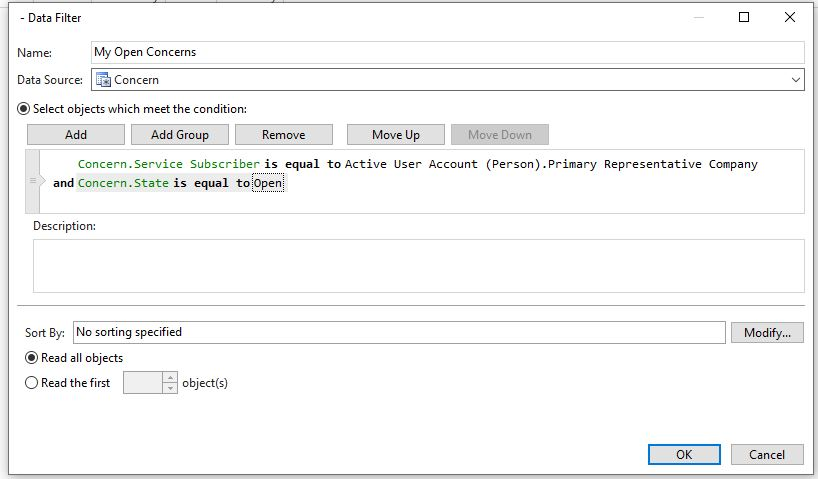
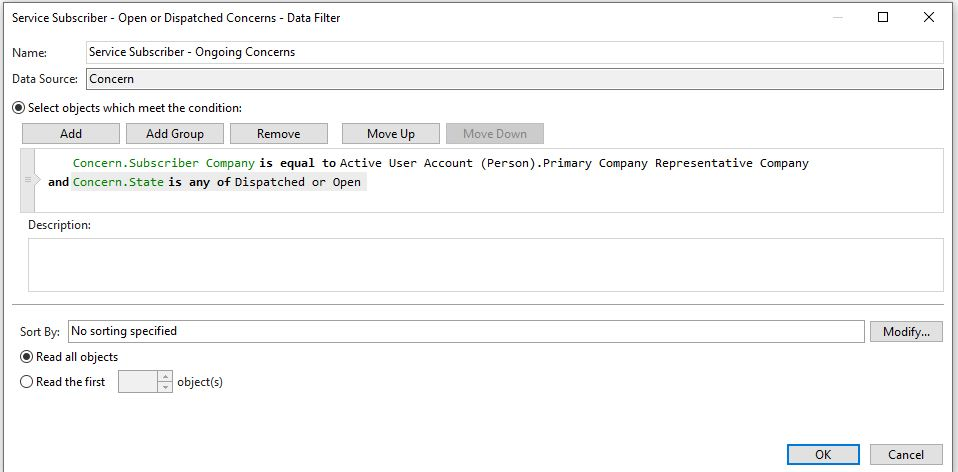
Additional exerices on 3 and 4

Changed region(s): [[0.0, 0.0, 1.0, 1.0]]

diff --git a/academy/e3.2-form.md b/academy/e3.2-form.md
@@ -4,16 +4,16 @@ You will now make a Form used for registering a new concern and showing details 
 
 
 
-2. In Pages, Right-click -> New -> Form. Save it right away with Master Data Source "Concern" and name it "Concern Details". Pick the default Viewport Layout "None". Both Components and Pages can be embedded in pages and other modules (if the setting is enabled for the page), and there is no strict rule for when a Page or Component is the correct choice. In this case, we're planning to embed the concern details into a larger Concern page containing the Task. However, we also want the user to be able to add concerns and only needing to input the values in the Concern Details page. Thus, "Concern Details" will also be used as a standalone page, and we decide to place it within the Pages section as a Form.
+2. In Pages, Right-click -> New -> Form. Save it right away with Master Data Source "Concern" and name it "Concern Details". Pick the default Viewport Layout "None". *Both Components and Pages can be embedded in pages and other modules (if the setting is enabled for the page), and there is no strict rule for when a Page or Component is the correct choice. In this case, we're planning to embed the concern details into a larger Concern page containing the Task. However, we also want the user to be able to add concerns and only needing to input the values in the Concern Details page. Thus, "Concern Details" will also be used as a standalone page, and we decide to place it within the Pages section as a Form.*
 
-![Components.JPG](media/components.JPG)
+
 
 ### 3.1.2 Data Set setup
 3. Data Sets: This is where you add the object(s) from the Module's Data Source selection that you want to show or utilize in the Form. You already defined Concern as the Master Data Source when creating the form. Note that:
    1. We want to be able to send Concern-data into the form and get data back - for instance we can auto-fill location based on the context we activate the form from, and return to a concern view updated with the new data after adding a new concern. This means that the dataset needs to have "Included in Public Interface" activated. Data Sources added in the Public Interface section here, will also be available for input.
    2. The form Data Set "Concern is restricted to occurrence = "One" by default when it is set as the Master Data Source, which means that only one Concern-object can exist in the Form and this one Concern is always in focus when the form is in use. Occurrences "Many" is used for data sources that you want to list (e.g. in a Table or List etc) within the form, often objects related to the master data source.
 
-![Exc2fig2.JPG](media/3.1.2.PNG)
+![Exc2fig2.JPG](media/DataSets_edit.JPG)
 
 ### 3.1.3 Viewport and Page Layout
 4. Viewport: Go to Viewport and rename the Area content to "Concern Details" (double click for edit mode). Viewport Areas are used to create the general layout of the Page, and if your page were separated in a few logical sections, you could determine the page's behaviour on smaller screens through viewports. Concern Details will be a fairly basic page, and we do not need any additional Viewport Areas for this part. Mark the left hand side of the "Contact Details" area (where it says "1fr" for "1 fraction"). In the right hand menu, you can now see some settings for the Row(0). Set Height Unit = Fit to Content.
@@ -22,14 +22,31 @@ You will now make a Form used for registering a new concern and showing details 
 ![Exc2fig3.JPG](media/Exc2fig3.JPG)
 
 ### 3.1.4 Adding Controls
-6. Navigate to "Controls" in the Insert Content section. Add a Container - either by double clicking or drag and dropping. You will get a warning in the upper left corner. Click it and read. These are warnings and recommendations from the form designer, and can often be useful to ensure that controllers are displayed optimally. Change the Height of the Container to Fit to Content as the warning suggests. The second section shows available controls for data fields. These can be added to the form and bound to data fields here, but a quicker route follows:
-  1. Navigate back to the Data tab in the Content-section.
+6. Navigate to "Controls" in the Insert Content section. Add a Container - either by double clicking when the viewport area is highlighted or drag and dropping. You will get a warning in the upper left corner. Click it and read. These are warnings and recommendations from the form designer, and can often be useful to ensure that controllers are displayed optimally. Change the Height of the Container to Fit to Content as the warning suggests. Also, set padding to 8 on all sides to clear some room in the edges of the page.
+
+![Exc2fig3.JPG](media/Container_settings.JPG)
+*Note that the two settings you just altered - height and padding - have become bolded to indicate that the default values have been replaced.*
+
+
+
+
+The second section shows available controls for data fields. These range from default input fields, to schedulers, and to embedding other components or pages.
+
+![Exc2fig3.JPG](media/Controls.JPG)
+
+
+These can be added to the form and bound to data fields from this Controls-list, but a quicker route follows:
+  1. Navigate back to the Data tab in the Insert Content-section.
   2. You can now add data fields to your form, with the data binding pre-defined. Hovering over a data field will show you the available control types for the given data field. Give some thought to the data type and amount of data being displayed when choosing the control type. For instance, radio buttons and dropdown menus are great for small selections of data, but may become overwhelming if applied to the data field for Company with several hundreds of instances. Here, a Lookup may increase user friendliness.
-7. Add Controls for the following fields; Subscriber Company, Property, Category and Severity. When choosing between display fields and input fields, give some though to whether the data could be changed at some point. In this case, the form will be used to create new instances so input fields are generally preferable.
+
+![Exc2fig3.JPG](media/ControlOptions.JPG)
+*These are simply suggestions, and you can always return to the Controls-tab to create more specific UX-controls as needed*
+
+7. Add Controls for the following fields; Subscriber Company, Subject, Property, Category and Severity. When choosing between display fields and input fields, give some though to whether the data could be changed at some point. In this case, the form will be used to create new instances so input fields are generally preferable. For a lot of the other forms created, the service subscriber should not be able to alter values, and you'll see a lot of display fields.
 8. Save your work and close the window.
 
 
-  ![Exc2fig3.JPG](media/Exc2fig4.JPG)
+
 
 
 
@@ -37,12 +54,29 @@ You will now make a Form used for registering a new concern and showing details 
 In the end, we want to be able to create new Concerns as well as viewing Concern Details in combination with the related task.
 We will start by using our "Concern Details" form as a Page in a larger form, before having a look at creating new concerns in the following actions lesson.
 
-1. Navigate to Pages. We want Create a new Form named "Concern", with the same Master Data Source as before - Concern. Pick the "Left/Right Split" for Viewport Layout. Navigate to Viewports and rename the Area contents to "Concern" (left) and "Task" (right) by double clicking. Set the height unit as Fractions for this row. We would like to have a header space that shows the subject of the Concern, that can stretch across both these viewports. Add a new row above the left/right, and a new viewport (use the ... in the row, instead of the + button at the bottom). Keep Height Unit as "Fit to Content" for this row. The viewport row is grey, which means there's no viewport area assigned to it. Add a new Viewport Area and name it "Header" ad drag it onto the two viewport spaces above "Left" and "Right". The page we're about to create will have two main columns of information, but for a full laptop size, this will likely not fill a full page. In these cases, we sometimes add an empty column in the layout to the right of the main content.
-2. Header; Head to the form view, and toggle the Control view (Ctrl+Shift+L). Mark the header area in the Control View.
-    1. Add an Icon control. Set the Icon to "Fluent-Message" - while the property manager may view Concerns as an inbox of potential tasks, the service subscriber considers concerns a communication with the property manager.
-    2. TODO
-3. We often add Pages or Components into a tab control, but content can also be embedded directly into the form. Highligt the Concern Viewport Area. Scroll all the way down to add an "Embedded Content"-control in the Control panel. Select Concern Details as your target, and send the Concern from your view into the data set.
-4. Navigate to Data Sets and add task as filtered dataset. We want Occurences to be set as "One" here - this is because we're only going to include the Task connected to the one Concern we're looking at right now. Set a mandatory data filter through "Objects Related to Another Data Set" that connects the Task to the active Concern's Task in a One to One Relationship.
+1. Navigate to Pages. We want Create a new Form named "Concern", with the same Master Data Source as before - Concern. Pick the "Left/Right Split" for Viewport Layout. Navigate to Viewports and rename the Area contents to "Concern" (left) and "Task" (right) by double clicking. Set the height unit as Fractions for this row. We would like to have a header space that shows the subject of the Concern, that can stretch across both these viewports. Add a new row above the left/right, and a new viewport (use the ... in the row, instead of the + button at the bottom). Keep Height Unit as "Fit to Content" for this row. The viewport row is grey, which means there's no viewport area assigned to it. Add a new Viewport Area and name it "Header" and drag it onto the two viewport spaces above "Left" and "Right". The page we're about to create will have two main columns of information, but for a full laptop size, this will likely not fill a full page. In these cases, we sometimes add an empty column in the layout to the right of the main content.
+
+![Exc2fig3.JPG](media/Viewports.JPG)
+
+
+
+![Exc2fig3.JPG](media/Concern_Viewport.JPG)
+
+2. Header; Head to the form view, and toggle the Control view (Ctrl+Shift+L). Mark the header area in the Control View. Set padding to 8 on all sides.
+    1. Add a Container and set height to Fit to Content.
+    2. Add an Icon control. Set the Icon to "Fluent-Message" - while the property manager may view Concerns as an inbox of potential tasks, the service subscriber considers concerns a communication with the property manager.
+    2. Add the "Display Name" as a Display Field. Set the Label value to "None". The Display Name is placed underneath the Icon by default, but we want these side-by-side. Mark the Container above and alter the Content Layout to Horizontal.
+
+![Exc2fig3.JPG](media/Horizontal.JPG)
+
+3. We often add Pages or Components into a tab control, but content can also be embedded directly into the form. Highlight the Concern Viewport Area. Scroll all the way down to add an "Embedded Content"-control in the Control panel. Select Concern Details as your target, and send the Concern from your view into the data set.
+
+## Add Task
+4. Navigate to Data Sets in your and add task as filtered dataset. We want Occurences to be set as "One" here - this is because we're only going to include the Task connected to the one Concern we're looking at right now. Set a mandatory data filter through "Objects Related to Another Data Set" that connects the Task to the active Concern's Task in a One to One Relationship.
+5. In the viewport Area to the right in your form, add an appropriate short summary of a task.
+
+
+## Mobile Layout
 5. Create a Mobile Viewport setup; Navigate back to the Viewports section. Add a new Viewport and choose "Medium" size as the breakpoint. This decides at what screen size the web page will choose this particular layout.  Make the following adaptions to the Phone Layout:
   1. Delete the empty rightmost column, this mostly exists to create an empty space for large screens.
   2. Delete the right column with Header and Task.
@@ -50,15 +84,9 @@ We will start by using our "Concern Details" form as a Page in a larger form, be
 If you head back into your Form, you can switch between the Viewports in the action bar on top. Here, you can also check how the form looks in dark mode or another colour theme. You can also test the phone viewport by shrinking the size of your browser.
 
 
+![Exc2fig3.JPG](media/Viewport_mobile.JPG)
 
 
-Task oppmot Concern er 1:1  
-
-9. Go to Form, and navigate to Controls. Add the container "Tab Control". Using the Tab Control allows us to tab content, and add Pages from the module. Set the Tab Control height to Fit to Content.
-10. Go to the Tab Control Settings at the right hand side. Click on Pages under "Content". Add a Page, and set the Target as the "Contact Details"-form you just created. Name the page "Contact Details".
-11. We need to define the data filter which informs your "Contact Detail" form of what data to display. Click on "No filters defined" and then click on the menu. Choose "Transfer All" and "Contact (0:1). Because both forms have Contact as their Master Data Source, they both contain maximum one instance of Contacts and the filter can simply transfer all Contacts from the form this instance.
-
-We will add activities at a later stage.
 
 
 

diff --git a/academy/e3.1-view.md b/academy/e3.1-view.md
@@ -3,17 +3,17 @@
 
 ## 3.1.1 Create a new Module called Concern and add Data definition
 1. In Studio, navigate to User Interaction -> Modules. Note that the existing modules have created a trend of dividing separate sections of the model into data-focused modules, and using the Facility Management module as a functionality-focused module where we collect all relevant pages from other modules. Continuing this trend, create a new data-focused Web Module named "Concern". You can instantly name it by saving once the Module Editor opens for your new module.
-2. Now we need to define which data source subset the module will have access to. Under Data Structure, navigate to Data Sources or Data Diagram and add Concern. Leave Max Occurrences as "unbounded", this allows the module to read more than one Concern, for instance for our tabular view. We can restrict the occurrences of the Concern object within each form and view later. Also leave "Persistable" checked, this allows us to add new concerns or alter existing contacts within the module and save the changes permanently. *Note that if you choose to do this in the Data Diagram, you will need to right-click and enable the Object Class as a Data Source after initially adding it. This is because the data diagram can sketch up relationships to object classes that are not used as data sources. Test this by adding Object Class Concern State, without enabling it as a data source. You can differentiate enabled data sources by their blue colour*
+2. Now we need to define which data source subset the module will have access to. Under Data Structure, navigate to Data Sources or Data Diagram and add Concern. Leave Max Occurrences as "unbounded", this allows the module to read more than one Concern, for instance for our tabular view. We can restrict the occurrences of the Concern object within each form and view later. Also leave "Persistable" checked, this allows us to add new concerns or alter existing contacts within the module and save the changes permanently. Also add Task as a Data Source. *Note that if you choose to do this in the Data Diagram, you will need to right-click and enable the Object Class as a Data Source after initially adding it. This is because the data diagram can sketch up relationships to object classes that are not used as data sources. Test this by adding Object Class Concern State, without enabling it as a data source. You can differentiate enabled data sources by their blue colour*
 
 
   ![Exc2fig5.JPG](media/Concern_DataSources.JPG)
-3. Data Filters: We want to create a few different data filters that can be applied to the Modules User Interfaces, namely: "My Open Concerns", "My Dispatched Concerns" and "My Completed Concerns". The "My" in this settings, indicates "the service subsriber's".
+3. Data Filters: We want to create a few different data filters that can be applied to the Modules User Interfaces, namely: "My Ongoing Concerns" and "My Completed Concerns". The "My" in this settings, indicates "the service subsriber's".
 
-  * Add new Data Filter, named "Service Subscriber - Open Concerns", with Filter Data Source = Concern.  We have 2 criteria we want to filter Concerns based on here - First off; we want the Concern's Subscriber Company to be the same as the logged on user's Primary Company Representative Company. Secondly; we want the Concern status to be Open. You can try to set up this filter without further instructions, or;
+  * Add new Data Filter, named "Service Subscriber - Ongoing Concerns", with Filter Data Source = Concern.  We have 2 criteria we want to filter Concerns based on here - First off; we want the Concern's Subscriber Company to be the same as the logged on user's Primary Company Representative Company. Secondly; we want the Concern status to be Open or Dispatched. You can try to set up this filter without further instructions, or;
   <details>
     <summary> **Click here for tips** </summary>
   We place the Object or Source we want to filter on the left hand side (Concern.Subscriber Company). This is a datafield available in the Web Module's data structure, so double-clicking (or right clicking and selecting "Select Object or Field") allows you to look in your available data sources for the comparison baseline here. We want to compare the Concern's Company value to the logged in user's primary company. Right click and choose "Select Object or Field" again. Note the Data Sources with different format to your Module Data Sources in the bottom of the "Data Source" list. These data sources are "session based". They can provide information about a logged on user, or error events as they occur. Highlight "Active User Account (Person)" and select "Primary Company Representative Company".
-  Add another condition, and set "Concern.State is equal to" as the conditional basis. State is a Code Domain - this means that there is a set number of values this comparison can use. Right click on the empty right-hand side, and choose "Open" from the value list.
+  Add another condition, and set "Concern.State is any of" as the conditional basis. State is a Code Domain - this means that there is a set number of values this comparison can use. Right click on the empty right-hand side, and choose "Select Object(s)", then pick Open and Dispatched from the value list.
 
     <details>
         <summary> **Click here to view the finished data filter** </summary>
@@ -24,8 +24,7 @@
 
 
 
-  * Add new Data Filter, named "Service Subscriber - Dispatched Concerns" using the same method.
-  * Add new Data Filter, named "Service Subscriber - Completed Concerns" using the same method.
+  * Add new Data Filter, named "Service Subscriber - Completed Concerns" using the same method. **NB! You can clone your first filter and simply alter the name and state-condition.**
 
 
 
@@ -33,27 +32,31 @@
 ## 3.2.2 Create Concern View
 
 1. Navigate to Pages in the Concern module. Add a New Page -> View.
-2. Name the View "Open Concerns" and choose Master Data Source = Concern. The reason all views are named in plural, is because their tabular nature indicates that several instances of the master data source will be listed.
-3. Navigate to View on the left-hand side and Toggle "Show Control View Pane" in the Ribbon (or click Ctrl+Shift+L). Both here, and directly in the view editor, you can alter the column arrangement by drag and dropping columns.
-4. Drag relevant data fields into the table from the "Insert Content" View, after the first columns you can simply double-click any data property you want added to the table.
-5. Add some custom formatting. Each column and cell can be formatted and styled by marking it and adjusting settings on the right hand side. Settings can be e.g. Column label, content alignment, filter enabling and text formatting. The default Column width is set to Fit to Content, but can often benefit from being changed to Fit to Label and Content (this is altered in the Column-tab on the right hand side, when a column is highlighted). This ensures that the label will be visible even if the column is empty for a certain subset of data, and can increase readability for the end user. For data properties that can be quite large (such as Subject or Note for Concern), a max width may be wise to avoid a single column taking up too much space.
+2. Name the View "Ongoing Concerns" and choose Master Data Source = Concern. The reason all views are named in plural, is because their tabular nature indicates that several instances of the master data source will be listed.
+3. Start in the Settings section in the top left, and title the View "Concerns" and add Icon "Fluent-Message" (continuing the symbolizing of concernc being communication between the leasing company and the property manager)
+3. Navigate to View on the left-hand side and Toggle "Show Control View Pane" in the Ribbon (or click Ctrl+Shift+L). Both in the Control View, and directly in the view editor, you can alter the column arrangement by drag and dropping columns. You can also navigate to the top-level in the table and edit table-level settings, or the top-level in the page and add an action bar (more on that later).
+  ![Exc2fig5.JPG](media/ViewEditor.JPG)
+
+
+4. Drag relevant data fields into the table from the "Insert Content" View, after the first columns you can simply double-click any data property you want added to the table. Add at least Concern No, Subject, Category, Property, Severity and Reported Date. Note that several columns are redundant due to the context, such as Service Subscriber and State - because the view is specifically created for Ongoing Concerns, and will use the "Service Subscriber - Ongoing Concerns" filter. *Note that while you can add Columns by right-clicking in the Control View, this required the data binding to be added to the column after, while dragging properties into the table from the "Insert Content"-section will automatically set data binding on your behalf.*
+5. Add some custom formatting. Each column and cell can be formatted and styled by marking it and adjusting settings on the right hand side. Settings can be e.g. Column label, content alignment, filter enabling and text formatting. The default Column width is set to Fit to Content (with header), which is a good fit for columns without very long data types. This ensures that the label will be visible even if the column is empty for a certain subset of data, and can increase readability for the end user. For data properties that can be quite large (such as Subject or Note for Concern), a max width may be wise to avoid a single column taking up too much space.
     * Set Max width = 400 for the Subject-column
-    * Alter the "Reported"-columns format to "Relative". This sets the time to show "3 days ago", in place of a date. Also rename the column Label to "Submitted"
-    * Set Layout properties Width = "Fit to Content (with Header)" and Min Width = "Fit to Content" for all columns.
+    * Alter the "Reported"-columns format to "Relative" (in the Cell-tab). This sets the time to show "3 days ago", in place of a date. Also rename the column Label to "Submitted"
 6. Mark the "table" level in the Control View Pane (or select a single column and hit "Esc"). This is where table-wide settings are found. More often than not, the Content and Interaction sections should be customized in some manner. The Content Section lets you group and sort the table based on content. Add sorting on "Concern No" Descending here. This sorts the Concerns in the order they were reported - reversed. We will define Interaction-behaviour after we have a form to represent a single Concern by.
 
   ![Exc2fig5.JPG](media/Exc2fig5.JPG)
 
 ### 3.2.2 Add the Concern View to the Facility Management Application
-Navigate to the Facility Management Application, and open the Sitemap. Note the setup for Tasks - where you have a group of pages. Within this group, several views with different data filters have been defined. This allows a single location on the sitemap to switch between different views. We would like to use the same setup for Concerns, where Open Concerns becomes the default and Dispatched and Completed are secondary views.
+Navigate to the Facility Management Application, and open the Sitemap. Note the setup for Tasks - where you have a group of pages. Within this group, several views with different data filters have been defined. This allows a single location on the sitemap to switch between different views. We would like to use the same setup for Concerns, where Ongoing Concerns becomes the default and Dispatched and Completed are secondary views.
 Add a Page and set target to your View named "Contacts", and set an appropriate name and title. The title is shown in the Tab name.
 
-1. Add Pages from the link list below the Tasks-section in the sitemap, label it "Concerns" and set Icon to "Fluent-Message".
-2. Add a page within the page group, label it "Backlog" and set the view "Open Concerns" as the target. Use the data filter "Service Subscriber - Open Concerns" to restrict the data listed in the app.
+1. Add **Pages** from the link list below the Tasks-section in the sitemap, label it "Concerns" and set Icon to "Fluent-Message".
+2. Add a page within the page group, label it "Backlog" and set the view "Ongoing Concerns" as the target. Use the data filter "Service Subscriber - Ongoing Concerns" to restrict the data listed in the app.
 3. At the bottom of the Page properties, set the "Backlog"-page as the default for the group.
 4. Badge; apply the same data source and filter settings to the page's badge.
-5. Save and refresh the app in your browser. Navigate to a Company. We can now see the Contact Tab, at the bottom of the Company page. As the database table is empty, no Companies has any contacts yet.
+5. Save and refresh the app in your browser. Navigate to the Concerns in your sitemap. As the database table is empty, no Companies has any concerns yet.
 
-Now that we can view the table with relevant contacts, we want to be able to view more details about a single contact or even create a new one. First, we will add the Contact view to our app so we can view our changes.
+
+Now that we can view the table with relevant concerns, we want to be able to view more details about a single contact or even create a new one.
 
   ![Exc2fig6.JPG](media/Exc2fig6.JPG)

diff --git a/academy/e4.2-action-2.md b/academy/e4.2-action-2.md
@@ -15,6 +15,30 @@ We've briefly mentioned that "rules" are actions triggered by data-related event
 Saving and exiting, your new rule is in place - you've already defined the action trigger by choosing Event and Property for the rule to trigger on.
 
 
+## 3.3.2 Adding Concern to the Overview Page
+While your new view is available in the sitemap, you may notice that the Overview page does not have a tile for "Concerns". If you look into the Facility Services Module, you'll notice that the tiles are connected to the Code Domain "Facility Service Indicator Type".
 
+
+1. Add the code domain value "4 - Concern" to the "Facility Service Indicator Type" code domain.
+
+2. We will be aggregating the count value for Concern, to create the number value on the tile. To facilitate this, we want to add a count-value to the Concern Object Class. This is somewhat similar to when we created the "Unbound" Display Name-property, only this time the value will be bound to the database. Even though we're creating a bound property, it will not be corresponding to a column in the database. Do the following:
+
+  1. Add a new, one-way bound property for the Concern Object Class, named "No. of Concerns" with datatype 32-bit integer. *One-way bound properties rely on information from the database, but cannot be altered or persisted from Genus and back to the database*.
+  2. In Data Calculation, choose "RDBMS Expression", and simply type in *. RDBMS expressions are sql-expressions that are added on top of the "regular" column query Genus sends the database to fetch information. The asterix is a "fetch all values"-query that is useful when aggregating a count value.
+
+
+
+3. Return to the Facility Management Module, and open the server actions. This action is where the summarizing values are created for the Overview page.
+
+4. Add a local data source and name it "Concern aggregate". Add a single field with dataype "Integer" named "No of Concerns". These local are not connected to, or persisted in, the database but are useful for temporarily holding onto values within an action.
+
+5. We will use the "Create a Data Aggregate"-effect to extract the Concern count that should be displayed on the tile. In this case, we want the same value as the badge on the "Backlog" (the default view for Concerns). This view is filtered using the "My Open Concerns"-filter, so we will recreate this filter here.
+    1. General: Base Data is set to Concern, and the aggregate is placed in your local data source "Concern Aggregate". The Concern is filtered with Company Subscriber = Active User Account.Primary Company Representative and State = Open
+    2. Dimensions can be left as it is. This is often used for more complex aggregations, to connect e.g. calendar properties from the base data to calendar properties in the data aggregation destination.
+    3. Measures:
+
+4.
+
+<!--
 ## Global Action
-Use the "Agreement - Change State"
+Use the "Agreement - Change State" -->

diff --git a/academy/e3.3-Repetition-and-Overview.md b/academy/e3.3-Repetition-and-Overview.md
@@ -1,0 +1,10 @@
+#Repetition and Overview Page
+
+
+## 3.3.1 Completed Concerns and Search
+
+1. Create a Completed Concerns view, similar to that of "Ongoing Concerns" from the first View Exercise. Remember to add Completion Code, a field specifically related to completed concerns.
+
+2. Add the view to the Concerns-pages group, with the Completed Concerns filter, just not as the default. While the list of open concerns should be relatively short, this list of completed concerns can become quite long. Make sure to enable search, and define a pagination.
+
+3. Save and refresh your web app. Switch from the default view of open concerns to your new view, and test out the search field in the top right corner.
